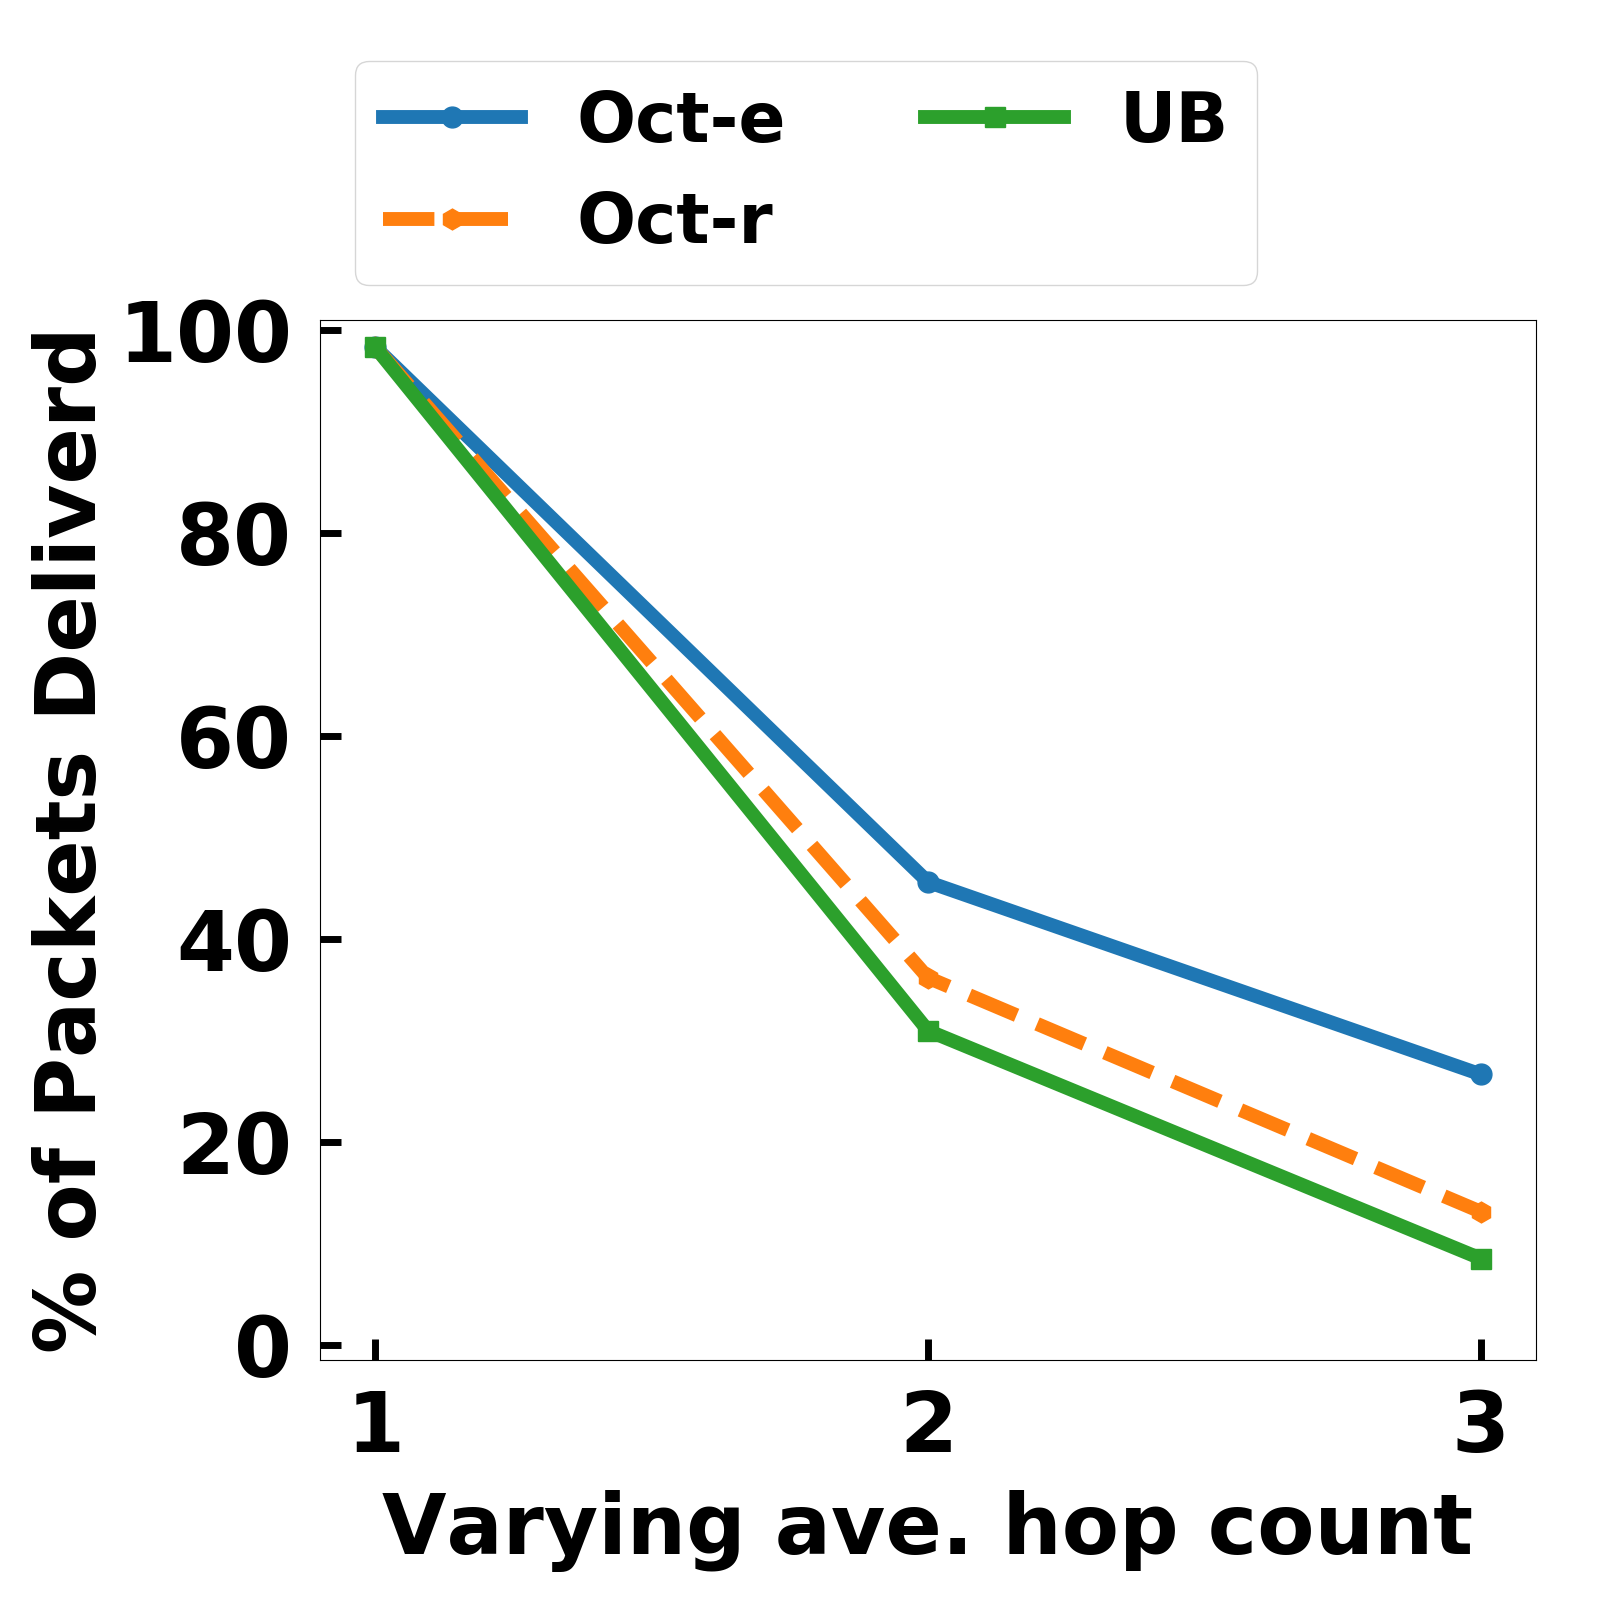
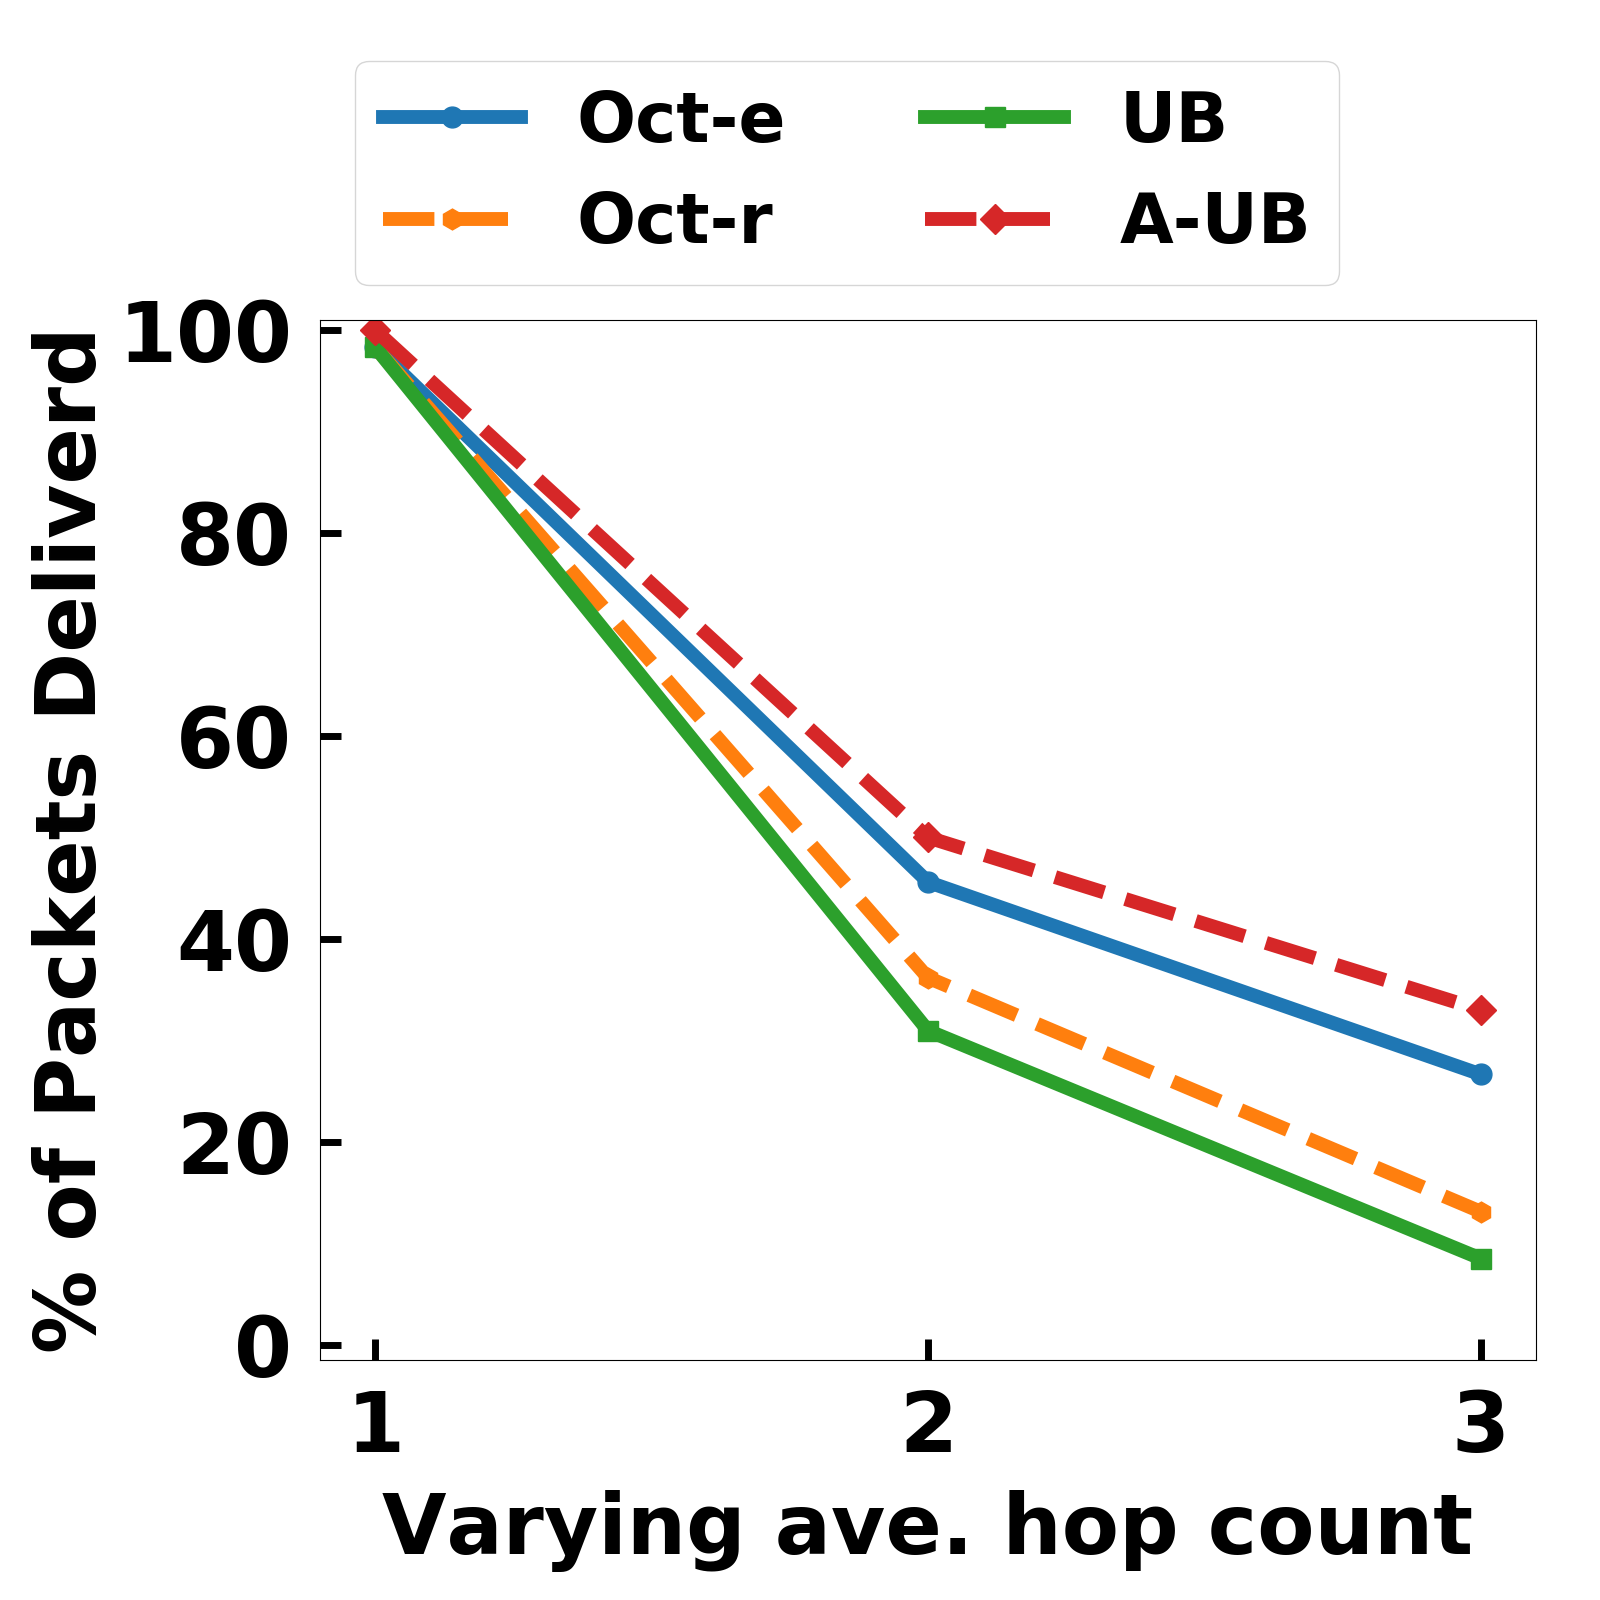
add absolute-ub

diff --git a/plots.py b/plots.py
@@ -62,10 +62,14 @@ def plot_line(table, method, filename=None, x_label=None, x_log=False, y_label=N
 	legend_num_column = 2
 	bbox_to_anchor = (0, 1)
 	if absolute_ub and y_label == '% of Packets Deliverd':
-		y = [66 for _ in X]
-		plt.plot(X, y, label='A-UB')
-		legend_num_column = 3
-		bbox_to_anchor = (-0.28, 1.05)
+		if x_label != 'Varying ave. hop count':
+			y = [66 for _ in X]	
+			plt.plot(X, y, label='A-UB')
+			legend_num_column = 3
+			bbox_to_anchor = (-0.28, 1.05)
+		if x_label == 'Varying ave. hop count':
+			y = [100, 50, 33]
+			plt.plot(X, y, linestyle='--', marker='D', label='A-UB')
 
 	plt.xticks(X)
 	if x_log:       # log scale on x axis
@@ -299,7 +303,7 @@ def plot5(path):
 		print metric
 		print tabulate.tabulate(print_table, headers = ['MIN_ROUTE'] + methods)
 		print ''
-		plot_line(print_table, methods_, filename='{}/{}-{}'.format(path, metric, 'vary_hop_count'), x_label='Varying ave. hop count', y_label=metric_)
+		plot_line(print_table, methods_, filename='{}/{}-{}'.format(path, metric, 'vary_hop_count'), x_label='Varying ave. hop count', y_label=metric_, absolute_ub=True)
 
 
 if __name__ == '__main__':
